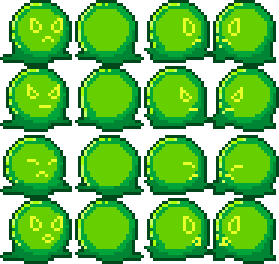
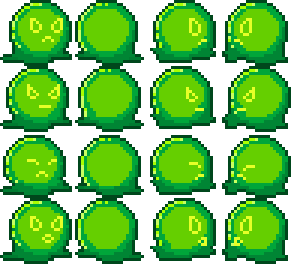
у слайма убраны баги в анимации, добавлена анимация получения урона для врагов, исправлен баг с ходьбой

diff --git a/enemies.py b/enemies.py
@@ -19,13 +19,15 @@ class Enemy(pygame.sprite.Sprite):
         self.bullet_coords = bullet_coords
         self.attack_range = attack_range
         self.cd = cd
-        self.timer = time()
+        self.timer = time() - randint(0, cd)
         self.state = 'walk'
         self.type = atk_type
+        self.count = 0
 
         self.walk_frames = self.cut_sheet(load_image(path + '/walk.png'), 4, 4)
         self.attack_frames = self.cut_sheet(load_image(path + '/attack.png'), 4, 4)
         self.dead_frames = self.cut_sheet(load_image(path + '/dead.png'), 4, 4)
+        self.damage_frames = self.cut_sheet(load_image(path + '/damage.png'), 4, 3)
         self.cur_frame = 1
         self.cur_rotate = 0
         self.speed_x = 0
@@ -50,6 +52,9 @@ class Enemy(pygame.sprite.Sprite):
         self.hp -= hp
         if self.hp <= 0:
             self.set_state('dead')
+            self.cur_frame = 0
+        else:
+            self.state = 'damage'
             self.cur_frame = 0
 
     def set_char_coords(self, coords):
@@ -92,24 +97,34 @@ class Enemy(pygame.sprite.Sprite):
         return bull
 
     def update(self, event):
-        collid = pygame.sprite.spritecollide(self, enemies, dokill=False)
-        collid.remove(self)
+        self.count += 1
         if pygame.sprite.spritecollide(self, obstacles, dokill=False) or \
-                pygame.sprite.spritecollide(self, characters, dokill=False) or collid:
+                pygame.sprite.spritecollide(self, characters, dokill=False):
             self.rect.x -= self.speed_x
             self.rect.y -= self.speed_y
         if self.state == 'dead':
             if self.cur_frame + 1 >= len(self.dead_frames[0]):
                 self.kill()
-            self.cur_frame = self.cur_frame + 1
-            self.image = self.dead_frames[self.cur_rotate][min(self.cur_frame, 3)]
+            if self.count >= FPS // ANIM_FPS:
+                self.count = 0
+                self.cur_frame = self.cur_frame + 1
+                self.image = self.dead_frames[self.cur_rotate][min(self.cur_frame, 3)]
+        if self.state == 'damage':
+            if self.cur_frame + 1 >= len(self.damage_frames[0]):
+                self.set_state('walk')
+            elif self.count >= FPS // ANIM_FPS:
+                self.count = 0
+                self.cur_frame = self.cur_frame + 1
+                self.image = self.damage_frames[self.cur_rotate][self.cur_frame]
         elif self.state == 'attack':
             if self.cur_frame + 1 >= len(self.attack_frames[0]):
                 self.set_state('walk')
                 self.speed_x = randint(-int(self.speed), int(self.speed))
                 self.speed_y = randint(-int(self.speed), int(self.speed))
-            self.cur_frame = (self.cur_frame + 1) % len(self.attack_frames[0])
-            self.image = self.attack_frames[self.cur_rotate][self.cur_frame]
+            if self.count >= FPS // ANIM_FPS:
+                self.count = 0
+                self.cur_frame = (self.cur_frame + 1) % len(self.attack_frames[0])
+                self.image = self.attack_frames[self.cur_rotate][self.cur_frame]
         elif self.state == 'walk':
             self.set_speed()
             if self.speed_y or self.speed_x:
@@ -123,20 +138,21 @@ class Enemy(pygame.sprite.Sprite):
                         self.cur_rotate = 2
                     else:
                         self.cur_rotate = 3
-            if 0 <= self.rect.x + self.speed_x <= WINDOW_SIZE[0] - self.rect.width:
-                self.rect.x += self.speed_x
-            if 0 <= self.rect.y + self.speed_y <= WINDOW_SIZE[1]:
-                self.rect.y += self.speed_y
-            if self.speed_x or self.speed_y:
-                self.cur_frame = (self.cur_frame + 1) % len(self.walk_frames[0])
-            self.image = self.walk_frames[self.cur_rotate][self.cur_frame]
-            self.mask = pygame.mask.from_surface(self.image)
+            if self.count >= FPS // ANIM_FPS:
+                self.count = 0
+                if 0 <= self.rect.x + self.speed_x <= WINDOW_SIZE[0] - self.rect.width:
+                    self.rect.x += self.speed_x
+                if 0 <= self.rect.y + self.speed_y <= WINDOW_SIZE[1]:
+                    self.rect.y += self.speed_y
+                if self.speed_x or self.speed_y:
+                    self.cur_frame = (self.cur_frame + 1) % len(self.walk_frames[0])
+                self.image = self.walk_frames[self.cur_rotate][self.cur_frame]
 
 
 class SkeletonSwordman(Enemy):
     def __init__(self, coords=(0, 0)):
         super().__init__(path='images/enemies/skeleton', bullet='images/bullets/24sword_attack.png', cd=4,
-                         bullet_coords=(10, 10), coords=coords, speed=40)
+                         bullet_coords=(10, 10), coords=coords, speed=60)
 
     def shoot(self, coords=(0, 0), speed=(0, 0)):
         bull = super().shoot(coords, speed)
@@ -146,20 +162,17 @@ class SkeletonSwordman(Enemy):
         super().attack()
         if self.char_coords[0] + (CHAR_SIZE[0] / 2) <= self.rect.x:
             self.cur_rotate = 3
-            coords = (self.rect.x + self.bullet_coords[0], self.rect.y + self.bullet_coords[1])
+            coords = (self.bullet_coords[0], self.bullet_coords[1])
         else:
             self.cur_rotate = 2
-            coords = (self.rect.x + self.bullet_coords[0] + self.rect.width - 10, self.rect.y + self.bullet_coords[1])
+            coords = (self.bullet_coords[0] + self.rect.width - 10, self.bullet_coords[1])
         self.shoot(coords=coords)
 
 
 class Slime(Enemy):
     def __init__(self, coords=(0, 0)):
-        super().__init__(path='images/enemies/slime', bullet='images/bullets/11slime_bullet.png', cd=4, hp=3,
+        super().__init__(path='images/enemies/slime', bullet='images/bullets/11slime_bullet.png', cd=3, hp=3,
                          bullet_coords=(10, 10), coords=coords, speed=40, attack_range=800, atk_type=1)
-
-    def attack(self):
-        super().attack()
 
     def set_state(self, state):
         if self.state == 'attack' and state == 'walk':
@@ -176,5 +189,5 @@ class Slime(Enemy):
                     speed[0] *= -1
                 if y < 0:
                     speed[1] *= -1
-            self.shoot(speed=speed, coords=(30, 30))
+            self.shoot(speed=speed, coords=(60 + randint(-10, 10), 30 + randint(-10, 10)))
         super().set_state(state)

diff --git a/characters.py b/characters.py
@@ -52,11 +52,12 @@ class Character(pygame.sprite.Sprite):
         path - папка с анимациями персонажа
         speed - скорость в пикселях в секунду
         hp - количество сердец здоровья '''
-    def __init__(self, path, weapon, speed=60, hp=5):
+    def __init__(self, path, weapon, speed=80, hp=5):
         super().__init__(all_sprites, characters)
         self.weapon = weapon
         self.hp = hp
         self.speed = speed / FPS
+        self.count = 0
 
         self.inf = Info(hp)
         self.frames = []
@@ -87,7 +88,15 @@ class Character(pygame.sprite.Sprite):
     def move(self, coords):
         self.rect.x, self.rect.y = coords
 
+    def walk(self):
+        self.rect.x += self.speed_x
+        self.rect.y += self.speed_y
+        if pygame.sprite.spritecollide(self, obstacles, dokill=False):
+            self.rect.x -= self.speed_x
+            self.rect.y -= self.speed_y
+
     def update(self, event):
+        self.count += 1
         if event.type == pygame.KEYDOWN:
             if event.key == 1073741906:
                 self.speed_x = 0
@@ -119,16 +128,12 @@ class Character(pygame.sprite.Sprite):
                 self.speed_x = 0
                 self.speed_y = 0
                 self.cur_frame = 1
-        self.rect.x += self.speed_x
-        self.rect.y += self.speed_y
-        if pygame.sprite.spritecollide(self, obstacles, dokill=False) or \
-                pygame.sprite.spritecollide(self, enemies, dokill=False):
-            self.rect.x -= self.speed_x
-            self.rect.y -= self.speed_y
         self.weapon.set_coords(self.rect.x + self.rect.width, self.rect.y + 20)
-        if self.speed_x or self.speed_y:
-            self.cur_frame = (self.cur_frame + 1) % len(self.frames[0])
-        self.image = self.frames[self.cur_rotate][self.cur_frame]
+        if self.count >= FPS // ANIM_FPS:
+            self.count = 0
+            if self.speed_x or self.speed_y:
+                self.cur_frame = (self.cur_frame + 1) % len(self.frames[0])
+            self.image = self.frames[self.cur_rotate][self.cur_frame]
 
 
 class Witch(Character):

diff --git a/weapons.py b/weapons.py
@@ -17,6 +17,7 @@ class Bullet(pygame.sprite.Sprite):
         self.speed = [speed[0] / FPS, speed[1] / FPS]
         self.suicide = suicide
         self.atk = False
+        self.count = 0
 
         self.frames = self.cut_sheet(load_image(path), int(path.split('/')[-1][0]), int(path.split('/')[-1][1]))
         self.cur_frame = 0
@@ -37,6 +38,7 @@ class Bullet(pygame.sprite.Sprite):
         return frames
 
     def update(self, event):
+        self.count += 1
         if pygame.sprite.spritecollide(self, obstacles, dokill=False):
             self.kill()
         if self.good:
@@ -52,8 +54,10 @@ class Bullet(pygame.sprite.Sprite):
         self.rect.y += self.speed[1]
         if self.suicide and self.cur_frame + 1 >= len(self.frames[self.cur_rotate]):
             self.kill()
-        self.cur_frame = (self.cur_frame + 1) % len(self.frames[self.cur_rotate])
-        self.image = self.frames[self.cur_rotate][self.cur_frame]
+        if self.count >= FPS // ANIM_FPS:
+            self.count = 0
+            self.cur_frame = (self.cur_frame + 1) % len(self.frames[self.cur_rotate])
+            self.image = self.frames[self.cur_rotate][self.cur_frame]
 
 
 class Weapon(pygame.sprite.Sprite):
@@ -63,6 +67,7 @@ class Weapon(pygame.sprite.Sprite):
         self.err = err
         self.timer = time()
         self.speed = speed
+        self.count = 0
         self.cd = cd
         self.bull = None
         self.cur_frame = 0
@@ -113,5 +118,13 @@ class Weapon(pygame.sprite.Sprite):
                                good=True)
 
     def update(self, event):
-        self.cur_frame = (self.cur_frame + 1) % len(self.frames[0])
-        self.image = self.frames[self.cur_rotate][self.cur_frame]
+        self.count += 1
+        if self.count >= FPS // ANIM_FPS:
+            self.cur_frame = (self.cur_frame + 1) % len(self.frames[0])
+            self.image = self.frames[self.cur_rotate][self.cur_frame]
+            self.count = 0
+
+
+class FireBook(Weapon):
+    def __init__(self):
+        super().__init__('images/weapons/13fire_book.png', 'images/bullets/13fire.png', cd=0.5, err=20, speed=60)

diff --git a/main.py b/main.py
@@ -10,8 +10,8 @@ pygame.init()
 screen = pygame.display.set_mode(WINDOW_SIZE)
 tile_width = tile_height = 30
 underground_enemies = [SkeletonSwordman, Slime]
-level_map = {1: {'map': 'rooms/start_room', 'type': 'start', 'new': True, 1: None, 2: 2, 3: None, 4: None},
-             2: {'map': 'rooms/battlefields/1', 'type': 'battlefield', 'new': True, 1: None, 2: None, 3: None, 4: 1}}
+level_map = {1: {'map': 'rooms/start_room', 'type': 'start', 'chest': False, 'new': True, 1: None, 2: 2, 3: None, 4: None},
+             2: {'map': 'rooms/battlefields/1', 'type': 'battlefield', 'chest': True, 'new': True, 1: None, 2: None, 3: None, 4: 1}}
 
 
 def make_room(filename):
@@ -111,7 +111,7 @@ class Camera:
 
 room = Room(1)
 camera = Camera()
-char = Witch(weapon=Weapon('images/weapons/13fire_book.png', 'images/bullets/13fire.png'))
+char = Witch(weapon=FireBook())
 
 clock = pygame.time.Clock()
 running = True
@@ -131,8 +131,6 @@ while running:
     do_loop = True
     for elem in enemies:
         elem.set_char_coords((char.rect.x, char.rect.y))
-    for sprite in all_sprites:
-        camera.apply(sprite)
 
     collid = pygame.sprite.spritecollide(char, teleports, dokill=False)
     if collid:
@@ -140,7 +138,10 @@ while running:
         room.remove()
         room = Room(collid[0].tp)
         char.move(room.char_coords)
+    for sprite in all_sprites:
+        camera.apply(sprite)
     camera.update(char)
+    char.walk()
     all_sprites.draw(screen)
     info.draw(screen)
     pygame.display.flip()

diff --git a/init.py b/init.py
@@ -4,7 +4,8 @@ import pygame
 
 WINDOW_SIZE = (780, 690)
 CHAR_SIZE = (50, 150)
-FPS = 6
+FPS = 12
+ANIM_FPS = 6
 
 all_sprites = pygame.sprite.LayeredUpdates()
 info = pygame.sprite.Group()
